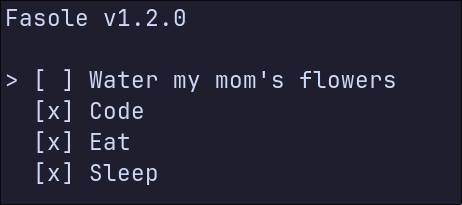
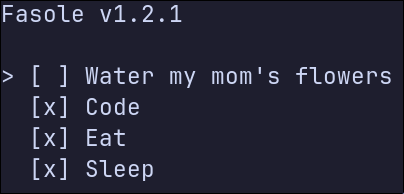
Fixed bug - version 1.2.1

Changed region(s): [[0.0594, 0.3402, 0.9802, 0.9278], [0.0, 0.0, 0.4455, 0.1546], [0.0, 0.3402, 0.0891, 0.433]]

diff --git a/main.go b/main.go
@@ -4,10 +4,9 @@ import (
     tea "github.com/charmbracelet/bubbletea"
 	"os"
 	"strings"
+	"embed"
 	"fmt"
-	"io"
 	"github.com/charmbracelet/glamour"
-	"net/http"
 )
 
 func parseFile(path string) ([]task, error) {
@@ -39,6 +38,9 @@ func saveFile(tasks []task, path string) (error) {
 	return err
 }
 
+//go:embed MANUAL.md
+var f embed.FS
+
 func main() {
 	var m model
 
@@ -46,8 +48,7 @@ func main() {
 		fmt.Println("Expected exactly one argument - db filename. For more info use \"fasole help\"")
 		os.Exit(1)
 	} else if os.Args[1:][0] == "help" {
-		res, _ := http.Get("https://raw.githubusercontent.com/ProggerX/fasole/main/MANUAL.md")
-		bts, _ := io.ReadAll(res.Body)
+		bts, _ := f.ReadFile("MANUAL.md")
 		str := string(bts)
 		r, _ := glamour.NewTermRenderer(
 			glamour.WithAutoStyle(),

diff --git a/methods.go b/methods.go
@@ -59,7 +59,7 @@ func (m model) Update(msg tea.Msg) (tea.Model, tea.Cmd) {
 }
 
 func (m model) View() string {
-	var s string = "Fasole v1.2.0\n\n"
+	var s string = "Fasole v1.2.1\n\n"
 	if m.creationd.isShown == false {
 		for i, itm := range m.tasks {
 			if m.cursor == i {
